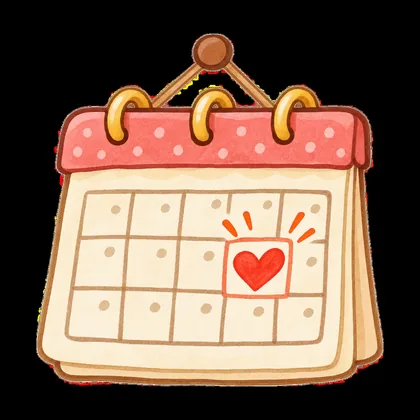
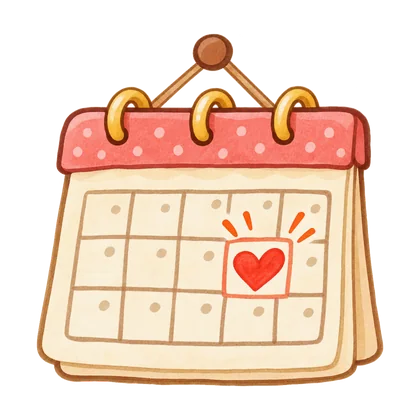
Cat Club ch1: keep transparency, new secret and sometimes (calendar with ticks)
Claude-Session: https://claude.ai/code/session_01Es9SkbbB1kqRj49aq4LNLx

diff --git a/src/books/cat-club/add_pics.py b/src/books/cat-club/add_pics.py
@@ -14,8 +14,8 @@ for f in sorted(glob.glob(os.path.join(sys.argv[1], '*.png'))):
     name = os.path.splitext(os.path.basename(f))[0].lower(); wid = ALIAS.get(name, name)
     line = re.search(r'\{ id: "%s", phrase: "([^"]*)", ru: "([^"]*)"(?:, img: "([^"]*)")? \}' % re.escape(wid), texts[packs[0]] + ''.join(texts.values()))
     if not line: print('?? no word for', name); continue
-    im = Image.open(f).convert('RGB'); im.thumbnail((420, 420), Image.LANCZOS)
-    im.save(os.path.join(assets, wid + '.webp'), 'WEBP', quality=82, method=6)
+    im = Image.open(f).convert('RGBA'); im.thumbnail((420, 420), Image.LANCZOS)
+    im.save(os.path.join(assets, wid + '.webp'), 'WEBP', quality=85, method=6)  # keeps transparency
     key = 'cc-' + wid
     raster[key] = f'<img src="../assets/cat-club/{wid}.webp" alt="{line.group(1)}" loading="lazy">'
     old = line.group(3)
